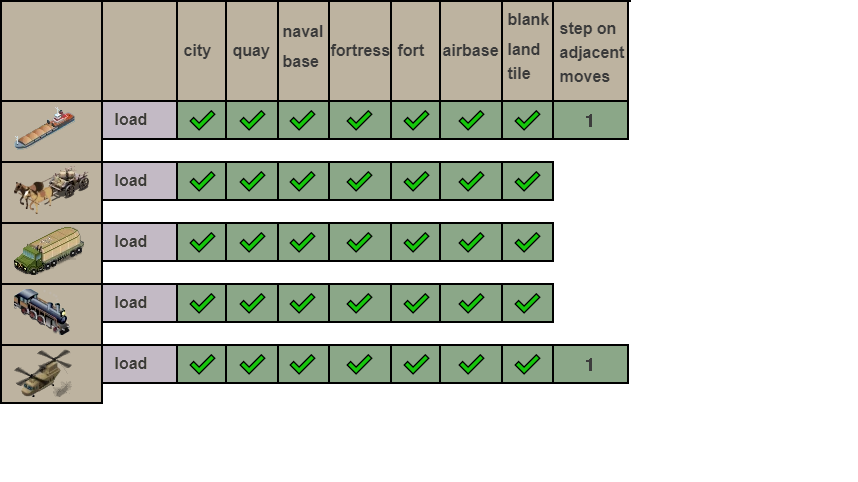
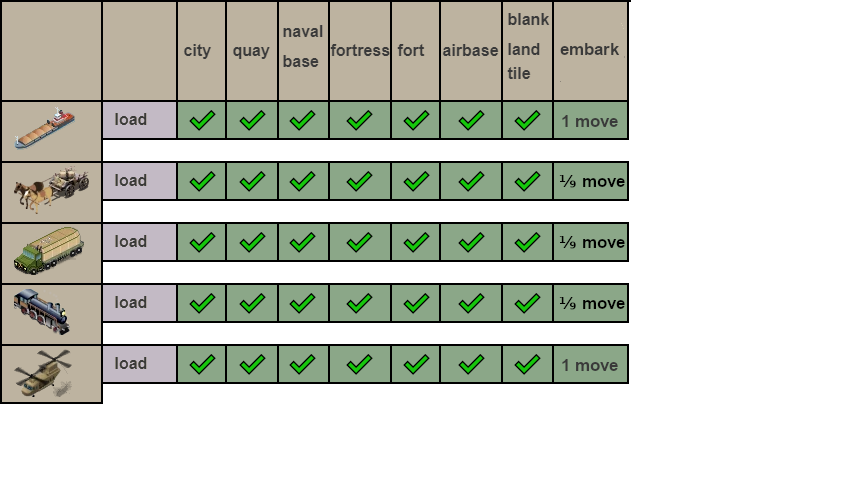
Fix transport mechanics helptext and charts.

diff --git a/freeciv-web/src/derived/webapp/man/mp2-dragoon7.bak.html b/freeciv-web/src/derived/webapp/man/mp2-dragoon7.bak.html
@@ -4712,10 +4712,12 @@ All Commerce units can carry Goods as cargo.</b>
 <pre class='firepower'>Firepower: 1</pre>
 <pre class='hitpoints'>Hitpoints: 10</pre>
 <pre class='obsolete'>Obsolete by: Truck</pre>
-<pre class='helptext'><b class='unit_desc' style='line-height:115%;font-size:115%;'>Wagons are the first Land unit that can do Commerce. Compared to a Caravan, they are defenseless, and without a road or quay, can only travel on grasslands, plains, and tundra. This exposes them to ambush and capture from units in Hideouts. A benefit of Wagons is to transport slower units to reach distant cities faster. They have 3⅓ move points, giving a range of 10 tiles on roads.
-  Goods and units with less than 3 move points can be carried on Wagons. Outside a city, units can load; but will lose their moves stepping off.
-  Read the help on Caravans to see what Commerce units can do.</b>
-  <hr style='border-top: 1px solid #000'>➤ Belongs to LandRoad unit class.
+<pre class='helptext'><b class='unit_desc' style='font-family:SegoeSB;line-height:115%;font-size:115%;'>Wagons are the first Commerce unit that can travel by land. Compared to a Caravan, they are defenseless. They must stay on roads and quays; or flat grasslands, plains, and tundra. Wagons are useful for transporting slower units. Wagons have 3⅓ move points, giving a range of 10 tiles on roads. 
+ 
+</b>
+<b class='unit_desc' style='font-family:SegoeSB;line-height:115%;font-size:115%;'>Wagons allow units with less than 3 move points to travel your roads faster. Any cargo can board a Wagon anywhere; but needs a city, quay, or base to deboard. Cargo can disembark anywhere, but it uses up all move points. 
+Read the help on Caravans to see what Commerce units can do.</b>
+<hr style='border-top: 1px solid #000'>➤ Belongs to LandRoad unit class.
   • Only able to move on road tiles.
   • Subject to zones of control.
 ➤ Can carry up to 2 Foot units. 
@@ -4758,16 +4760,17 @@ All Commerce units can carry Goods as cargo.</b>
 <pre class='firepower'>Firepower: 1</pre>
 <pre class='hitpoints'>Hitpoints: 30</pre>
 <pre class='obsolete'>Obsolete by: None</pre>
-<pre class='helptext'><b style='color:#9aa;line-height:115%;font-size:115%;font-family:SegoeSB'>Trains are Commerce units with a bonus: they allow units with less than 3 move points to travel your rails at distances comparable to other units. Foot Soldiers can:
-  1. (L)oad outside a City or Base; 
-  2. Unload (T)ransport in a Base or Quay; 
-  3. Move off the Train outside a City (loses all moves.) 
-All other units must load/unload inside a City. 
-On non-allied foreign rails, Trains incur full terrain movement cost. Pre-gunpowder units can't attack Trains.
+<pre class='helptext'><b class='unit_desc' style='font-family:SegoeSB;line-height:115%;font-size:115%;'>Trains are Commerce units with a bonus：they allow units with less than 3 move points to travel your rails at distances comparable to other units. Transport logistics for Trains are more restricted than for Wagons and Trucks. Except for Foot soldiers, all units need to be in a city to get on or off a Train. 
+Foot Soldiers use Trains the same as Wagons and Trucks, and can: 
+  1. Board anywhere; 
+  2. Deboard in a Base or Quay.; 
+  3. Disembark outside a City (loses all moves.) 
+
+On non-allied foreign rails, Trains incur full terrain movement cost. Pre-gunpowder units can’t attack Trains. 
 
 Electricity and Combustion each give Trains an additional +1 move.</b>
 <hr style='border-top: 1px solid #000'>➤ Belongs to LandRail unit class.
-  • Only able to move on railroad tiles.
+    • Only able to move on railroad tiles.
   • Subject to zones of control.
   • Unreachable to pre-gunpowder units.
 ➤ Can carry up to 6 qualifying units. 
@@ -4807,13 +4810,10 @@ Electricity and Combustion each give Trains an additional +1 move.</b>
 <pre class='firepower'>Firepower: 1</pre>
 <pre class='hitpoints'>Hitpoints: 20</pre>
 <pre class='obsolete'>Obsolete by: None</pre>
-<pre class='helptext'><b style='color:#9aa;line-height:115%;font-size:115%;font-family:SegoeSB'>The Truck unit replaces the Caravan as the basic Commerce unit on Land. It moves at more than twice the speed, but without a road or quay, must stay on grasslands, plains, and tundra. Each Truck used to build a wonder will add 50 shields. See the entry on Caravan to read what Commerce units may do. If adjacent to a foreign city, you may use the D key to do Commerce functions.
-Trucks allow units with less than 3 move points to travel your roads at distances comparable to other units. Only Foot Soldiers can: 
-1. (L)oad outside a City or Base; 
-2. Unload (T)ransport in a Base or Quay; 
-3. Move off the Truck outside a City (loses all moves.) 
-All other units must load/unload inside a city.</b>
-<hr style='border-top: 1px solid #000'>➤ Belongs to LandRoad unit class.
+<pre class='helptext'><b class='unit_desc' style='font-family:SegoeSB;line-height:115%;font-size:115%;'>The Truck replaces the Caravan as the basic Commerce unit on Land. It moves at more than twice the speed; but is restricted to the same roads and flatland tiles as Wagons, and can't use rails. Each Truck used to build a Wonder will add 50 shields. See the entry on Caravan to read what Commerce units may do. 
+</b>
+<b class='unit_desc' style='font-family:SegoeSB;line-height:115%;font-size:115%;'>Trucks allow units with less than 3 move points to travel your roads faster: Like the Wagon, any cargo can board a Truck anywhere, but a city, quay, or base is needed to deboard. Disembarking is legal for all cargo types, but uses up all moves (except Marines.)</b>
+<hr style='border-top: 1px solid #000'>➤ Belongs to LandRoad unit class. 
   • Can only travel on roads.
   • Slowed down while damaged.
 ➤ Can carry up to 3 qualifying units. 

diff --git a/freeciv-web/src/derived/webapp/man/mp2-caravel7.bak.html b/freeciv-web/src/derived/webapp/man/mp2-caravel7.bak.html
@@ -4648,10 +4648,12 @@ All Commerce units can carry Goods as cargo.</b>
 <pre class='firepower'>Firepower: 1</pre>
 <pre class='hitpoints'>Hitpoints: 10</pre>
 <pre class='obsolete'>Obsolete by: Truck</pre>
-<pre class='helptext'><b class='unit_desc' style='line-height:115%;font-size:115%;'>Wagons are the first Land unit that can do Commerce. Compared to a Caravan, they are defenseless, and can only travel on roads and quays. This exposes them to ambush and capture from units in Hideouts. A benefit of Wagons is to transport slower units to reach distant cities faster. They have 3⅓ move points, giving a range of 10 tiles on roads.
-  Goods and units with less than 3 move points can be carried on Wagons. Outside a city, units can load; but will lose their moves stepping off.
-  Read the help on Caravans to see what Commerce units can do.</b>
-  <hr style='border-top: 1px solid #000'>➤ Belongs to LandRoad unit class.
+<pre class='helptext'><b class='unit_desc' style='font-family:SegoeSB;line-height:115%;font-size:115%;'>Wagons are the first Commerce unit that can travel by land. Compared to a Caravan, they are defenseless. They must stay on roads and quays. Wagons are useful for transporting slower units. Wagons have 3⅓ move points, giving a range of 10 tiles on roads. 
+ 
+</b>
+<b class='unit_desc' style='font-family:SegoeSB;line-height:115%;font-size:115%;'>Wagons allow units with less than 3 move points to travel your roads faster. Any cargo can board a Wagon anywhere; but needs a city, quay, or base to deboard. Cargo can disembark anywhere, but it uses up all move points. 
+Read the help on Caravans to see what Commerce units can do.</b>
+<hr style='border-top: 1px solid #000'>➤ Belongs to LandRoad unit class.
   • Only able to move on road tiles.
   • Subject to zones of control.
 ➤ Can carry up to 2 Foot units. 
@@ -4694,12 +4696,13 @@ All Commerce units can carry Goods as cargo.</b>
 <pre class='firepower'>Firepower: 1</pre>
 <pre class='hitpoints'>Hitpoints: 30</pre>
 <pre class='obsolete'>Obsolete by: None</pre>
-<pre class='helptext'><b style='color:#9aa;line-height:115%;font-size:115%;font-family:SegoeSB'>Trains are Commerce units with a bonus: they allow units with less than 3 move points to travel your rails at distances comparable to other units. Foot Soldiers can:
-  1. (L)oad outside a City or Base; 
-  2. Unload (T)ransport in a Base or Quay; 
-  3. Move off the Train outside a City (loses all moves.) 
-All other units must load/unload inside a City. 
-On non-allied foreign rails, Trains incur full terrain movement cost. Pre-gunpowder units can't attack Trains.
+<pre class='helptext'><b class='unit_desc' style='font-family:SegoeSB;line-height:115%;font-size:115%;'>Trains are Commerce units with a bonus：they allow units with less than 3 move points to travel your rails at distances comparable to other units. Transport logistics for Trains are more restricted than for Wagons and Trucks. Except for Foot soldiers, all units need to be in a city to get on or off a Train. 
+Foot Soldiers use Trains the same as Wagons and Trucks, and can: 
+  1. Board anywhere; 
+  2. Deboard in a Base or Quay.; 
+  3. Disembark outside a City (loses all moves.) 
+
+On non-allied foreign rails, Trains incur full terrain movement cost. Pre-gunpowder units can’t attack Trains. 
 
 Electricity and Combustion each give Trains an additional +1 move.</b>
 <hr style='border-top: 1px solid #000'>➤ Belongs to LandRail unit class.
@@ -4743,12 +4746,9 @@ Electricity and Combustion each give Trains an additional +1 move.</b>
 <pre class='firepower'>Firepower: 1</pre>
 <pre class='hitpoints'>Hitpoints: 20</pre>
 <pre class='obsolete'>Obsolete by: None</pre>
-<pre class='helptext'><b style='color:#9aa;line-height:115%;font-size:115%;font-family:SegoeSB'>The Truck unit replaces the Caravan as the basic Commerce unit on Land. It moves at more than twice the speed, but must stay on roads and quays. Each Truck used to build a wonder will add 50 shields. See the entry on Caravan to read what Commerce units may do. If adjacent to a foreign city, you may use the D key to do Commerce functions.
-Trucks allow units with less than 3 move points to travel your roads at distances comparable to other units. Only Foot Soldiers can: 
-1. (L)oad outside a City or Base; 
-2. Unload (T)ransport in a Base or Quay; 
-3. Move off the Truck outside a City (loses all moves.) 
-All other units must load/unload inside a city.</b>
+<pre class='helptext'><b class='unit_desc' style='font-family:SegoeSB;line-height:115%;font-size:115%;'>The Truck replaces the Caravan as the basic Commerce unit on Land. It moves at more than twice the speed; but is restricted to the same roads and quays as Wagons, and can't use rails. Each Truck used to build a Wonder will add 50 shields. See the entry on Caravan to read what Commerce units may do. 
+</b>
+<b class='unit_desc' style='font-family:SegoeSB;line-height:115%;font-size:115%;'>Trucks allow units with less than 3 move points to travel your roads faster: Like the Wagon, any cargo can board a Truck anywhere, but a city, quay, or base is needed to deboard. Disembarking is legal for all cargo types, but uses up all moves (except Marines.)</b>
 <hr style='border-top: 1px solid #000'>➤ Belongs to LandRoad unit class.
   • Can only travel on roads.
   • Slowed down while damaged.
